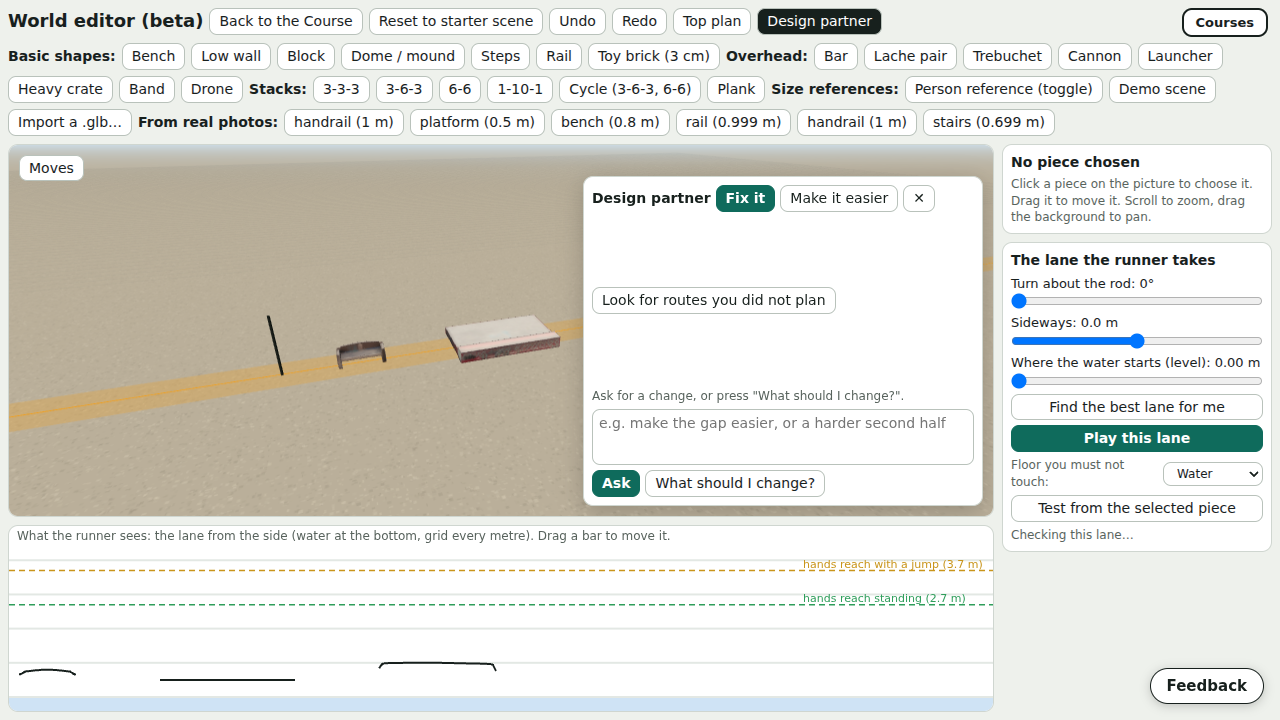
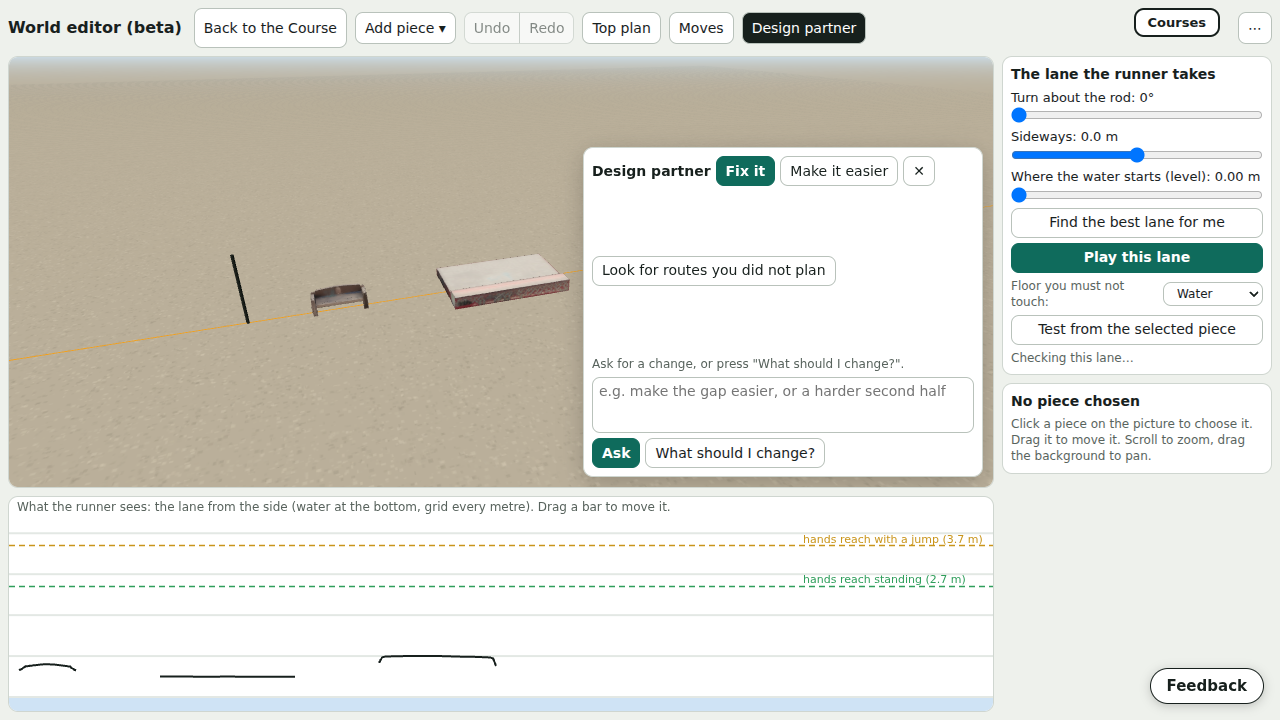
Courses gallery after the new editor top bar: the button sits left of the More menu, and the new demo has a picture (Fixes CC-89)
- The new editor top bar has a More menu at the top right, so the Courses button sits just left of it.
- Launch and catch: hard has its picture.
- scripts/picker-check.mjs can run one mode: MODES=editor.

Claude-Session: https://claude.ai/code/session_011JteUH526KiCBBLbHey9D6

diff --git a/src/ui/world-picker.ts b/src/ui/world-picker.ts
@@ -264,5 +264,6 @@ export function mountWorldGallery(parent: HTMLElement, o: { current: { value: st
 export const BUTTON_PLACE: Record<string, string> = {
   course: 'right:16px;top:196px',
   dojo: 'right:330px;top:12px', // left of the Back button
+  editor: 'right:60px;top:8px', // left of the top bar's More (⋯) menu
 };
 export const DEFAULT_PLACE = 'right:12px;top:8px'; // the top right corner is empty in the editor, the map, the coaster builder and the park

diff --git a/docs/world-slice.md b/docs/world-slice.md
@@ -1509,6 +1509,6 @@ The set of obstacle shapes is fixed, and each shape offers a fixed set of moves.
 - The list lives in `src/ui/world-picker.ts` (`DEMO_GROUPS`), so a new course is added in one place and shows up on every page.
 - Pictures: `npm run thumbs` takes a still of each course at its first obstacle into `public/assets/thumbs/`; `tests/world-picker.test.ts` fails when a card has no picture.
 - The "Make your own" cards (random course, editor, coaster builder, map) have a drawn icon instead of a still.
-- Where the button sits: top right everywhere (in the Course under the Debug button, in the Dojo left of the Back button); `scripts/picker-check.mjs` checks that it covers no control at 1280x720, 1024x640 and a phone width.
+- Where the button sits: top right everywhere (in the Course under the Debug button, in the Dojo left of the Back button, in the editor left of its More menu); `scripts/picker-check.mjs` checks that it covers no control at 1280x720, 1024x640 and a phone width.
 - On a phone the button sits bottom left, away from the Feedback button.
 - Not done: a pick leaves the page, so unsaved editor work is lost unless that mode already asks first.
